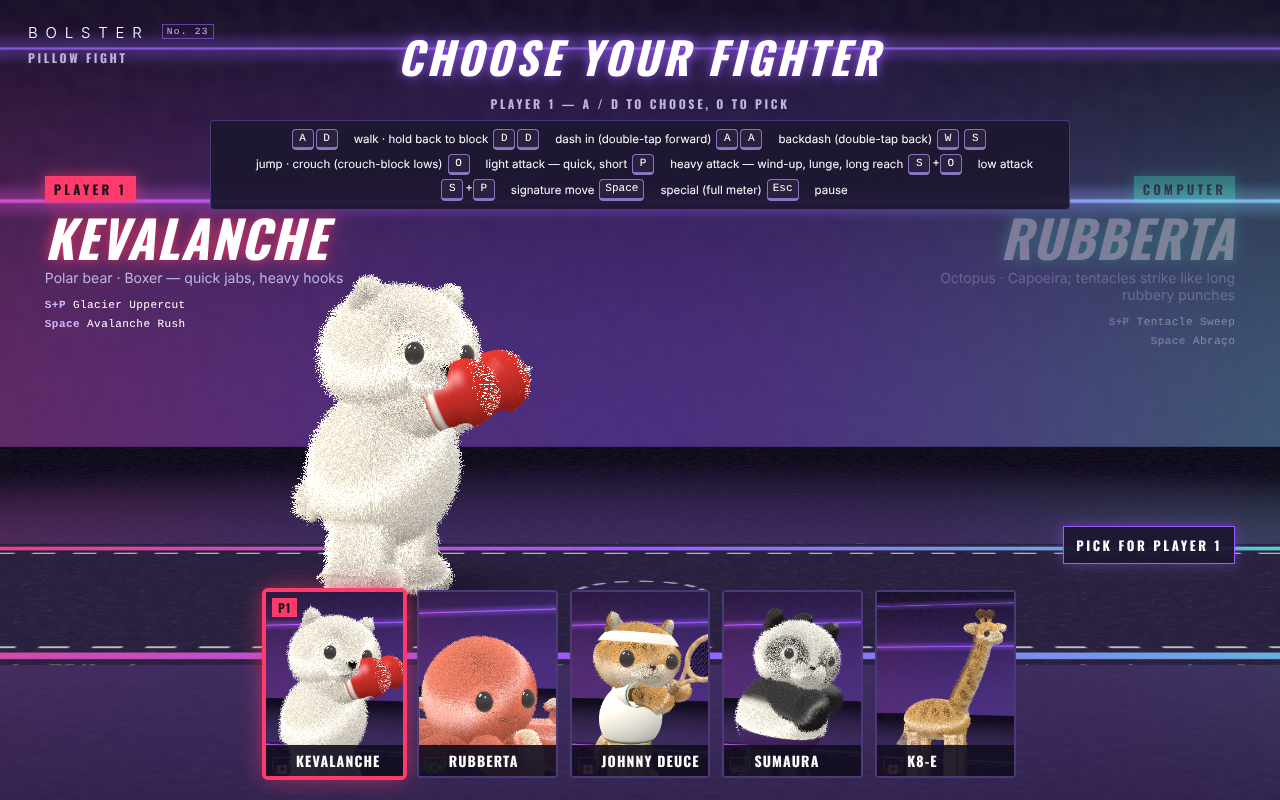
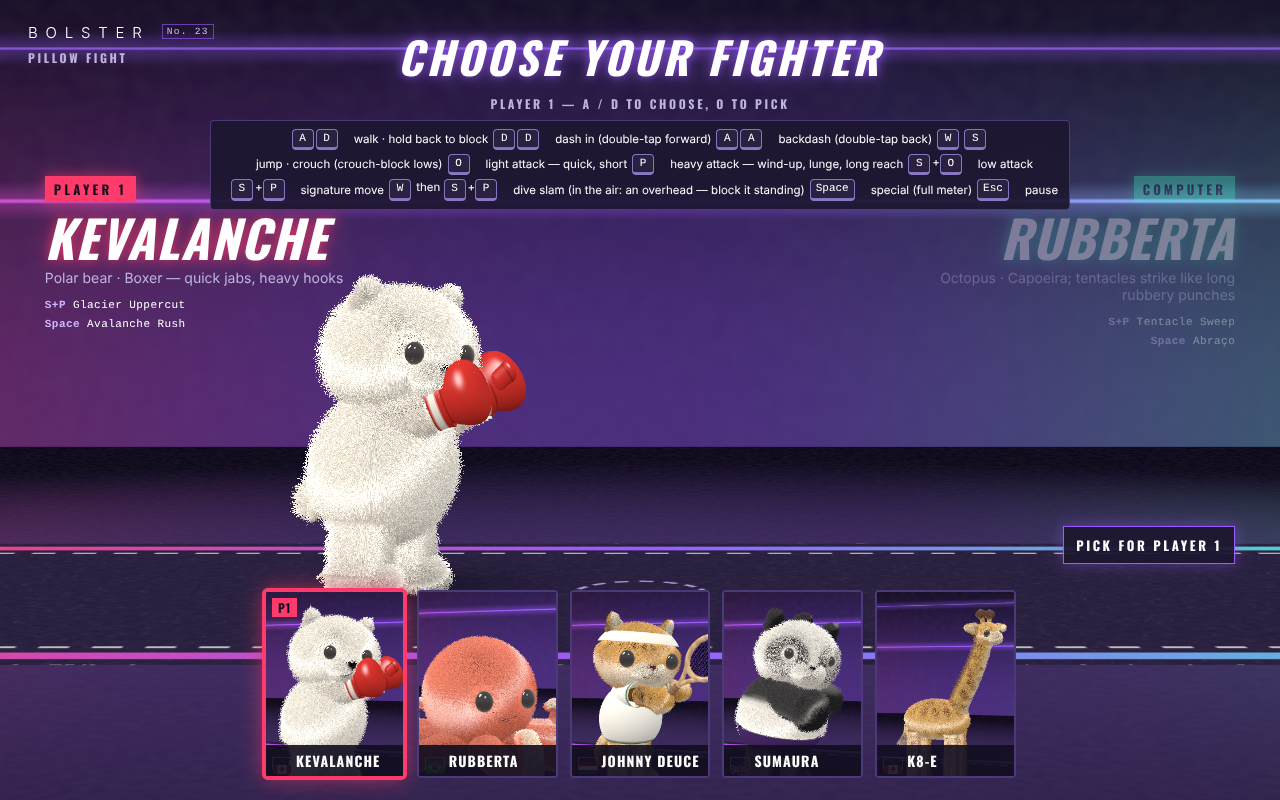
Bolster moves: camera follows a high jump; evidence (jumps, dives, select, gloves), README
Claude-Session: https://claude.ai/code/session_01MrY2Y9rCLDr9qepxD38SRw

Changed region(s): [[0.1875, 0.2188, 0.8125, 0.25], [0.3438, 0.4375, 0.4375, 0.5312], [0.2812, 0.8125, 0.3125, 0.875]]

diff --git a/bolster/_source/src/render/stage.js b/bolster/_source/src/render/stage.js
@@ -143,7 +143,7 @@ export class Stage {
   }
 
   /* ── camera: frames both fighters, a little shake on a big hit ─────────── */
-  frame(xa, xb, dt, aspect, focus = null) {
+  frame(xa, xb, dt, aspect, focus = null, high = 0) {
     let mid = (xa + xb) / 2;
     const sep = Math.abs(xa - xb);
     const narrow = aspect < 1.2;
@@ -162,8 +162,11 @@ export class Stage {
     const C = this.camera;
     C.aspect = aspect;
     C.fov = narrow ? 34 : 26;
-    const L = this.cam.lift || 0;
-    C.position.set(this.cam.x + jx, 3.7 + jy - L, this.cam.d);
+    // someone high in a jump: the camera rises and eases back to keep him in
+    const hw = focus ? 0 : Math.max(0, high - 0.8);
+    this.cam.up = (this.cam.up || 0) + (hw - (this.cam.up || 0)) * Math.min(1, dt * 9);
+    const L = (this.cam.lift || 0) - this.cam.up * 1.0, D = this.cam.d + this.cam.up * 1.6;
+    C.position.set(this.cam.x + jx, 3.7 + jy - L, D);
     C.lookAt(this.cam.x + jx * 0.5, 2.1 + jy * 0.5 - L * 0.4, 0);
     C.updateProjectionMatrix();
   }

diff --git a/bolster/_source/src/fight.js b/bolster/_source/src/fight.js
@@ -109,7 +109,7 @@ export class Fight {
       this.plush[k].update(Math.min(dt, 0.05), F, O, P[k].x, P[k].y, P[1 - k].x, P[1 - k].y, threat);
     }
     const extra = this.stage.projectiles(st.proj, a, this.prevProj);
-    this.stage.frame(P[0].x, P[1].x, dt || 0.016, innerWidth / innerHeight, this.focus);
+    this.stage.frame(P[0].x, P[1].x, dt || 0.016, innerWidth / innerHeight, this.focus, Math.max(P[0].y, P[1].y));
     this.stage.paintShadows(this.plush, extra);
     this.stage.update(dt);
   }

diff --git a/bolster/_source/README.md b/bolster/_source/README.md
@@ -31,6 +31,37 @@ to the computer too; `seed=N` fixes the match seed; `toques=1`; `webgl` forces
 the WebGL 2 path; `hold` stops the free-running loop for scripted stepping;
 `boxes` draws the sim's hurt, limb, hit and shot boxes over the picture).
 
+## Moves pass (bolster-moves)
+
+- **Card portraits** were stripes under WebGPU: three's `copyTextureToBuffer`
+  pads each row to 256 bytes (a 240-px portrait came back at 1024 bytes a
+  row, not 960) and the readback was read as packed. `render/readback.js`
+  honours the stride; portraits are 256 px wide (already aligned).
+  `test/readback.test.mjs` covers padded/flipped rows at several sizes;
+  `node tools/portrait-check.mjs [--shear out.png]` scores each real portrait
+  (row-vs-column difference ratio, subject centred) and can draw the old shear.
+- **Kevalanche's gloves**: the arm's fur mask stopped at v = 0.985 of the tube
+  region, but the paw's end cap is mapped 0.985–1.0, so the fist kept full
+  pile and it came out through the glove (and the face painter left the mask
+  canvas in `lighter` mode). `render/gloves.js`: `shaveCaps()` masks the caps;
+  the old glove tube is kept as the cuff; a padded boxing-glove mesh (~1.4×,
+  thumb pad, laces, seams, glossy leather) rides the end of each arm chain.
+- **Jumps**: a 3-tick crouch (`jumpsquat`), then a ballistic leap — rise
+  gravity `jumpG`, a hang under `HANG_V`, a faster fall `fallG` (~48–51 ticks
+  in the air, apex ~4.3 units). A forward leap clears every fighter's standing
+  hurt box but K8-E's (her push box is 5.2 units tall: the neck). Landing
+  re-faces both; air normals' windows were lengthened for the higher arc.
+  The camera rises and eases back while someone is high.
+- **Dive slam** (S+P in the air, all fighters): a 6-tick hang, a fast drop
+  that's an overhead (standing block only), an impact shockwave round the
+  feet if the drop missed, 30 ticks of landing lag (12 if it connected).
+  Poses: double-fist hammer, tentacle splat, overhead smash, belly-flop,
+  neck chop. The CPU uses it now and then (`dive` per difficulty).
+- **Johnny Deuce is Dutch** 🇳🇱 ("Nog niet!").
+
+`node tools/moves-shots.mjs [jump-johnny|jump-k8e|dives]` and
+`node tools/polish-shots.mjs gloves-kevalanche` make the evidence in `shots/moves/`.
+
 ## The roster
 
 | Fighter | Animal | From | Signature (S+P) | Special (Space, full meter) |
